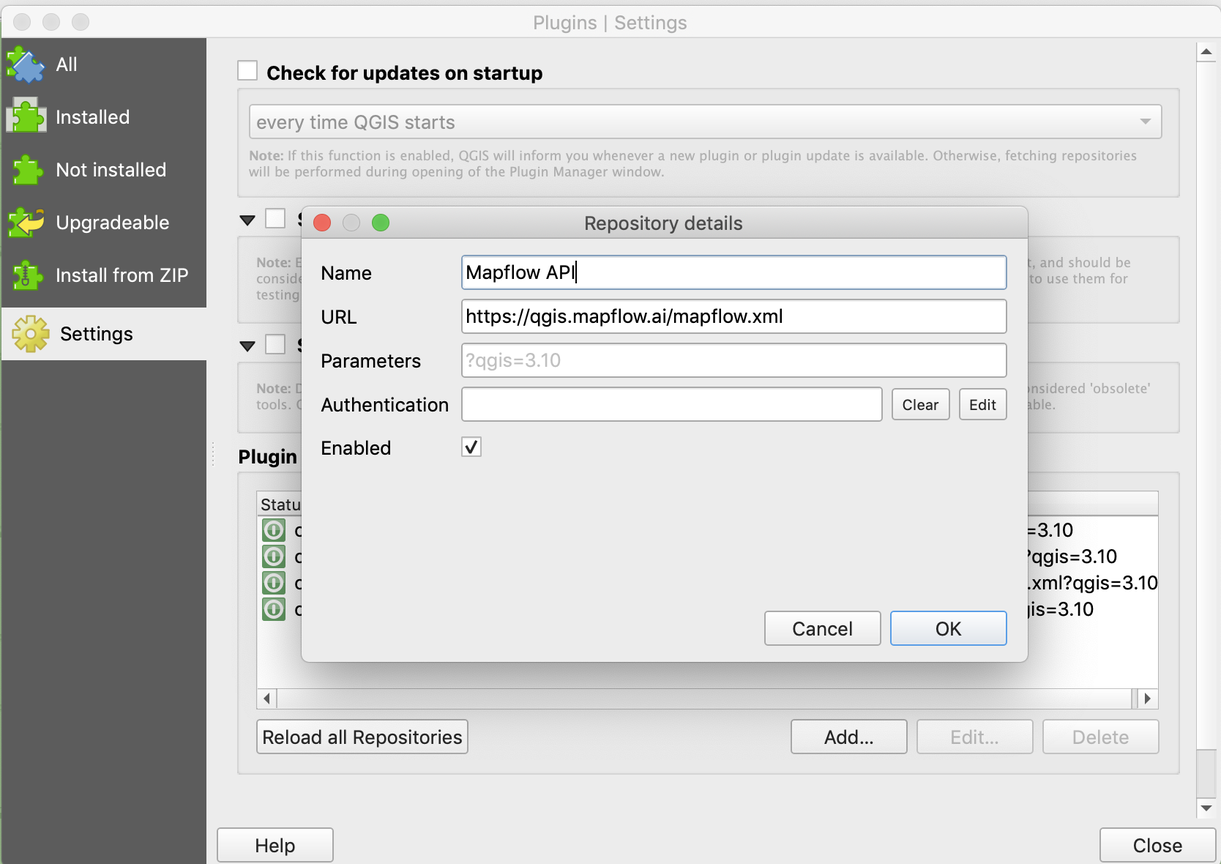
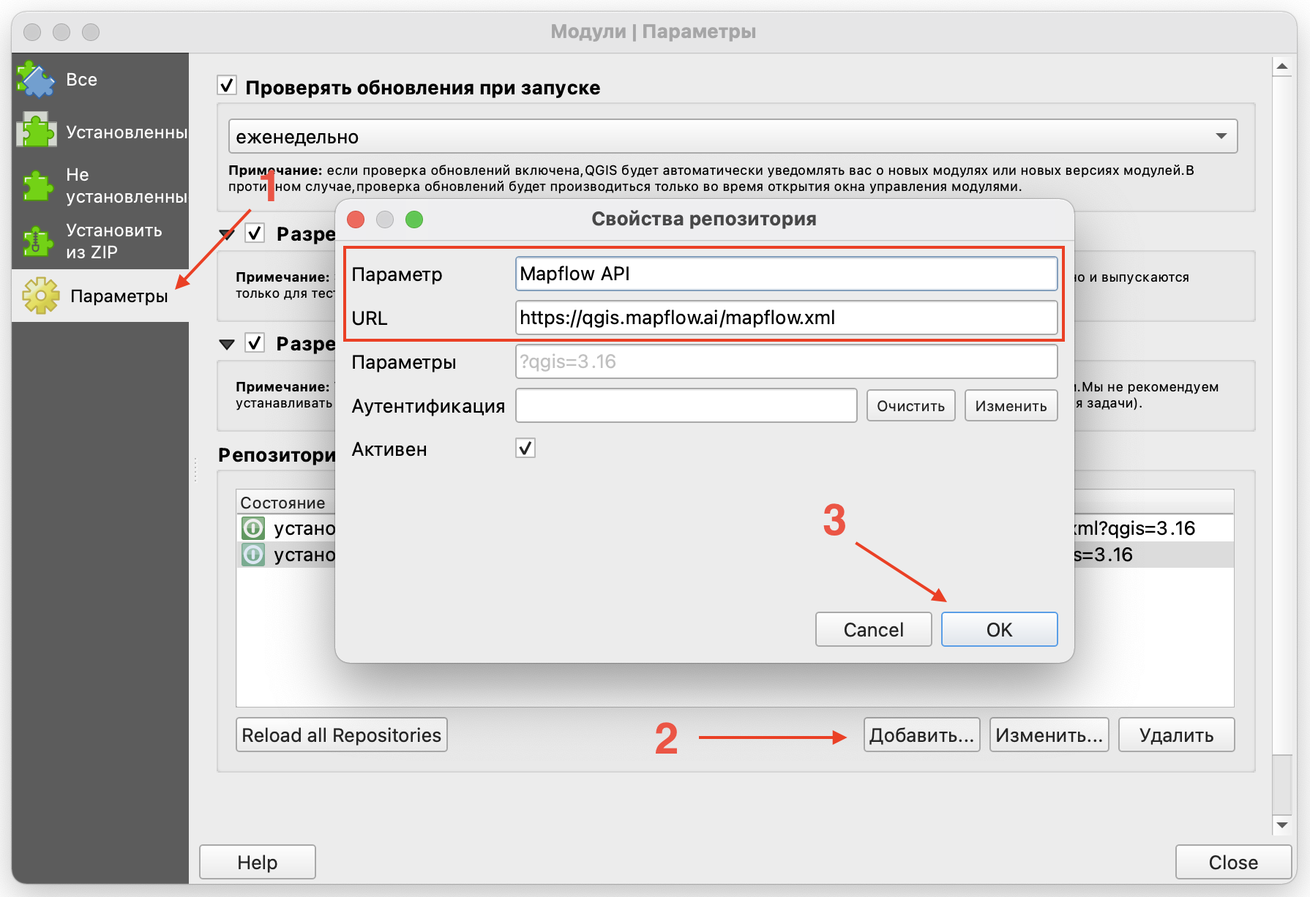
Update UI description

diff --git a/docs_api/qgis_mapflow.rst b/docs_api/qgis_mapflow.rst
@@ -8,73 +8,107 @@ QGIS
 Что такое QGIS
 ---------------
 
-
 **QGIS** - это наиболее популярная настольная ГИС с открытым исходным кодом. Пользователи могут визуализировать, управлять, редактировать, анализировать данные и составлять печатные карты. Узнайте больше на официальном сайте `QGIS <https://www.qgis.org/>`_. 
 
 При помощи данной ГИС  вы сможете подключить больше приложений и расширить функциональность, поскольку данная система имеет ресурсы для подключения внешних плагинов разработанных на Python. Наше приложение позволяет подключаться к Mapflow :doc:`processing_api` для запуска AI-моделей обработок и получать результаты процессинга в виде слоев для QGIS.
 
 
+Как установить плагин
+----------------------
+
+Для начала вам необходимо добавить внешний репозиторий с нашего сайта. Для этого нажмите Модули -> Управление и установка модулей… -> Параметры -> Добавить…, в появившемся окне заполните поля Параметр (имя) и URL-адрес репозитория.
+
+.. figure:: _static/qgis/add_repo.png
+         :alt: Add repo
+         :align: center
+         :width: 15cm
+
+Далее перейдите во вкладку Не установленные (или Все) и введите в поисковую строку название нашего плагина - Geoalert MapFlow. Нажмите Установить плагин.
+
+Теперь иконка плагина появилась в области Панель инструментов QGIS. Если автоматически иконка не отобразилась, нажмите правой кнопкой мыши по Панели инструментов и поставьте галочку рядом с Geoalert.
+         
+
 Пользовательский интерфейс
 ---------------------------
 
+Для использования плагина необходимо авторизоваться под своей учетноой записью. Зарегистрируйтесь и напишите в службу поддержки на сайте платформы запрос на предоставление доступа к API для работы с плагином.
+
+Окно авторизации
+~~~~~~~~~~~~~~~~
+
+.. figure:: _static/qgis/login_window.png
+         :alt: Login window
+         :align: center
+         :width: 10cm
+
+  
+.. list-table::
+   :widths: auto
+   :header-rows: 1
+
+   * - Название поля / кнопки
+     - Описание
+   * - Логин / Пароль
+     - Поля, предназначенные для ввода данных учетной записи пользователя.
+   * - Сервер
+     - Выбор платформы к которой плагин будет обращаться для запуска обработки.
+   * - Запомнить меня
+     - Сохранение персональных данных пользователя для использования плагина при дальнейшем выходе из своей учетной записи.   
+   * - Вход
+     - Кнопка входа в учетную запись пользователя.
+   * - Отмена
+     - Кнопка закрытия окна авторизации плагина.
+
+
+
+Плагин Geoalert
+~~~~~~~~~~~~~~~~
+
 Рабочее окно плагина Geoalert разделено на 3 вкладки:
 
-- Processing (Обработка);
-- Settings (Настройки);
-- Help (Справка).
+- Обработка;
+- Настройки;
+- Помощь.
 
-1. Processing
+1. Обработка
 ~~~~~~~~~~~~~~~
 
-    .. figure:: _static/qgis/processing_tab.png
+.. figure:: _static/qgis/processing_tab.png
          :alt: View of the processing tab
          :align: center
          :width: 15cm
 
 
-**1.1. Область авторизации пользователя**
+**Область параметров обработки**
 
-    *Login/Password*. В данной области необходимо ввести Login и Password. Перейдите на `mapflow.ai <https://mapflow.ai/ru>`_, зарегистрируйтесь и напишите в службу поддержки на сайте платформы запрос на предоставление доступа к API для работы с плагином.
+.. csv-table::
+    :file: _static/qgis/processing_parameters_area.csv 
+    :header-rows: 1 
+    :class: longtable
+    :widths: 1 3  
 
-    *Save Login/Password*. Сохранение персональных данных пользователя для дальнейшего использования плагина при его перезапуске.
 
-    *Connect*. Кнопка входа в учетную запись пользователя.
+**Блок отображения и работы с процессингами**
 
-**1.2. Область параметров обработки**
+.. list-table::
+   :widths: auto
+   :header-rows: 1
 
-    *Processing name*. Название обработки.
+   * - Название поля / кнопки
+     - Описание
+   * - Название
+     - Название обработки.
+   * - Модель
+     - Выбранный пользователем тип обработки в поле AI model.
+   * - Состояние
+     - Статус обработки. IN_PROGRESS - производится обработка, OK - обработка завершилась, FAILED - обработка завершилась неудачно.
+   * - Прогресс
+     - Степень завершенности обработки в процентном соотношении.
+   * - Дата
+     - Дата создания обработки.
 
-    *AOI layer*. Область, по которой будет производиться обработка. Данный слой автоматически отображается в выпадающем списке из списка векторных слоев QGIS, загрузите этот слой в QGIS или нарисуйте его.
-
-    *AI model*. Тип обработки. В выпадающем списке можно выбрать следующие типы обработки (дефолтный список сценариев обработки):
-       
-        - *Building Detection* (определение зданий);
-        - *Roads Detection* (определение дорог);
-        - *Forest Detection* (определение леса);
-        - *Buildings detection With Heights* (определение зданий с высотами);
-        - *Forest Detection With Heights* (определение леса с высотами).
-    
-    *Imagery source*. Подложка. По умолчанию выбрано Mapbox Satellite, в выпадающем списке также можно выбрать Custom (см.  Settings) и Open new .tif.
-
-    *Update image in cache*. Обновить изображение обработки в кэше.
-
-    *Start processing*. Кнопка запуска новой обработки.
-     
-**1.3. Блок отображения и работы с процессингами**
-
-    Окно процессингов состоит из:
-
-    - *Processing*. Степень завершенности обработки в процентах.
-    - *Name*. Название обработки.
-    - *Status*. Статус обработки.
-    - *Created*. Дата создания обработки.
-    - *ID*. ID обработки.
-    - *AI model*. Выбранный пользователем тип обработки в поле AI model.
-
-    *Delete*. Кнопка удаления ранее произведенную обработку из окна процессингов.
-
-    *Load processing results*. Кнопка, которая позволяет выгрузить полученный результат обработки в виде слоя в QGIS.
-
+Чтобы выгрузить результаты обработки, нажмите на завершенную обработку двойным щелчком.
+  
 2. Settings
 ~~~~~~~~~~~~
 
@@ -83,51 +117,52 @@ QGIS
          :align: center
          :width: 15cm
 
-*Destination folder*. Путь к директории, в которую будет загружен результат обработки.
+.. list-table::
+   :widths: auto
+   :header-rows: 1
 
-*Geoalert platform url*. URL-адрес платформы Geoalert.
-
-*Custom Imagery provider URL*. URL-адрес поставщика результатов спутниковой съёмки.
-
-*Raster tile type*. Растровый тип тайла. Можно выбрать xyz, tms, wms.
-
-*Max zoom 14*. Зум размера 14 выбран по умолчанию, чтобы исключить расход платного трафика на предпросмотр (Актуально в случае подключения к Maxar SecureWatch. Просмотр данных с этого сервиса возможен с 9 зума. Можно использовать приближение до максимального 18 зума, сняв галочку).
-
-*Preview*. Кнопка предпросмотра подложки указанного поставщика  спутниковой съёмки и геопространственных данных.
+   * - Название поля / кнопки
+     - Описание
+   * - Рабочая папка
+     - Путь к директории, в которую будет загружен результат обработки.
+   * - Добавление источника снимков
+     - URL-адрес поставщика результатов спутниковой съёмки.
+   * - Тип источника
+     - Растровый тип тайла. Можно выбрать xyz, tms, wms.
+   * - Просмотр
+     - Кнопка предпросмотра подложки указанного поставщика спутниковой съёмки и геопространственных данных.
+   * - Ограничить зум до 14
+     - Зум размера 14 выбран по умолчанию, чтобы исключить расход платного трафика на предпросмотр (Актуально в случае подключения к Maxar SecureWatch. Просмотр данных с этого сервиса возможен с 9 зума. Можно использовать приближение до максимального 18 зума, сняв галочку).
 
 **Настройки Maxar SecureWatch**
 
-*Login/Password*. Данные для входа в учетную запись SecureWatch.
+.. list-table::
+   :widths: auto
+   :header-rows: 1
 
-*Save Login/Password*. Сохранение персональных данных пользователя для дальнейшей возможности подключения к ресурсам SecureWatch.
+   * - Название поля / кнопки
+     - Описание
+   * - Логин / Пароль
+     - Данные для входа в учетную запись SecureWatch.
+   * - Запомнить
+     - Сохранение персональных данных пользователя для дальнейшей возможности подключения к ресурсам SecureWatch.
+   * - Connect ID
+     - Идентификатор подключения к ресурсам SecureWatch.
+   * - Получить ссылку
+     - Кнопка для получения URL-адреса поставщика данных спутниковой съёмки Maxar.
+   * - Feature ID
+     - Идентификатор изображения, пересекающегося с выбранной AOI областью, полученный из метаданных.
+   * - Область
+     - Область, по которой будут представлены метаданные.
+   * - Загрузить метаданные
+     - Кнопка для запуска сбора метаданных по выбранной области. После ее нажатия внизу появится таблица со всеми изображениями, пересекающимися с выбранной областью обработки.
 
-*Connect ID*. Идентификатор подключения к ресурсам SecureWatch. 
 
-*Get URL*. Кнопка для получения URL-адреса поставщика данных спутниковой съёмки Maxar.
-
-*Feature ID*. Идентификатор изображения, пересекающегося с выбранной AOI областью, полученный из meta-данных.
-
-*AOI layer*. Область, по которой будут представлены meta-данные.
-
-*Get image metadata*. Кнопка для запуска сбора meta-данных по выбранной области.
-
-3. Help
-~~~~~~~~
+3. Помощь
+~~~~~~~~~
 
 Во вкладке размещены все полезные ссылки для работы с данным плагином.
 
-Как установить плагин
-----------------------
-
-Вам необходимо добавить внешний репозиторий с нашего сайта, нажать *Плагины* -> *Управление...* -> *Добавить…* и заполнить форму с именем и `URL-адресом репозитория <https://qgis.mapflow.ai/mapflow.xml>`_.
- 
-.. figure:: _static/qgis/add_repo.png
-         :alt: Add repo
-         :align: center
-         :width: 15cm
-
-После этого вы сможете увидеть, доступна ли более новая версия приложения, и проверить подробности в журнале изменений.
-  
 
 Как подключиться к Maxar SecureWatch
 ------------------------------------
@@ -135,16 +170,16 @@ QGIS
 .. note::
     **SecureWatch** - это сервис по подписке, который обеспечивает глобальный доступ к спутниковым снимкам мирового лидера в области ДЗЗ, компании MAXAR. Пространственное разрешение снимков варьируется в диапазоне от 30 см до 1 м. Все снимки сопровождаются метаданными, включая информацию о дате и времени съемки, угле съемки и облачном покрове, пространственном разрешении, уровне обработка снимка и др. В нашем плагине реализован специальный интерфейс для работы с этим сервисом, позволяющий искать и просматривать снимки, а также использовать их для обработки в Mapflow.ai, оптимизируя при этом объем скачиваеемых данных.
 
-На вкладке **Processing** в выпадающем списке *Imagery source* выберите *Custom (in settings)*.
+На вкладке **Обработка** в выпадающем списке *Снимки* выберите *Иной источник (в настройках)*.
 
- .. figure:: _static/qgis/Geoalert_processing.png
+.. figure:: _static/qgis/use_maxar_sw.png
          :alt: Processing dialog
          :align: center
          :width: 15cm
 
-2. Перейдите на вкладку **Settings**.
+2. Перейдите на вкладку **Насройки**.
  
-3. Введите ваши данные учетной записи  SecureWatch в поля *Login* и *Password*.
+3. Введите ваши данные учетной записи  SecureWatch в поля *Логин* и *Пароль*.
 
 .. important:: 
     Если у вас нет учетной записи, зарегистрируйтесь на официальном сайте `SecureWatch <https://explore.maxar.com/securewatch-demo>`_.
@@ -167,7 +202,7 @@ QGIS
 
      4.4. Вернитесь в QGIS к плагину **Geoalert**, в поле *Connect ID* вставьте скопированный индентификатор.
    
-5. Нажмите *Get URL*. 
+5. Нажмите *Получить ссылку*. 
      
 Теперь слой Maxar доступен для предварительного просмотра в вашем списке растровых слоев и для обработки с помощью платформы Mapflow.
 
@@ -175,11 +210,11 @@ QGIS
 Как найти, просмотреть и обработать конкретный снимок, используя Maxar SecureWatch
 ~~~~~~~~~~~~~~~~~~~~~~~~~~~~~~~~~~~~~~~~~~~~~~~~~~~~~~~~~~~~~~~~~~~~~~~~~~~~~~~~~~
 
-Используя SW, вы можете найти и обработать снимок на интересующую область, используя поиск по всем доступным данным.
+Используя SecureWatch, вы можете найти и обработать снимок на интересующую область, используя поиск по всем доступным данным.
 
 1. Активируйте рабочую область настройки *Maxar SecureWatch*.
 
-2. С помощью выпадающего списка *AOI layer* выберите границы интересующей вас области обработки.
+2. С помощью выпадающего списка *Область* выберите границы интересующей вас области обработки.
 
 .. note::
     Область должна быть создана или загружена из файла, как полигональный векторный слой QGIS.
@@ -189,19 +224,19 @@ QGIS
          :align: center
          :width: 15cm    
 
-3. Нажмите  *Get image metadata*, чтобы просмотреть все имеющиеся снимки, перескающиеся с вашей областью обработки.
+3. Нажмите  *Получить метаданные*, чтобы просмотреть все имеющиеся снимки, перескающиеся с вашей областью обработки.
 
 4. С помощью выведенного списка полученных снимков, выберите наиболее подходящий для вас из перечня и выделите его в списке.
 
 .. note::
     Метаданные найденных снимков загружаются с использованием протокола WFS и отображаются в виде векторного слоя в дереве слоев. Вы можете работать с ним, как с любым векторным слоям, оперируя всеми атрибутами таблицы атрибутов.
 
-5. Нажмите *Get URL*, чтобы сформировать запрос к выбронному снимку (параметр *Feature ID*).
+5. Нажмите *Получить ссылку*, чтобы сформировать запрос к выбронному снимку (параметр *Feature ID*).
 
-6. Нажмите *Preview*, чтобы просмотреть выбранный снимок в отдельном растровом слое.
+6. Нажмите *Просмотр*, чтобы просмотреть выбранный снимок в отдельном растровом слое.
 
 .. attention::
-    Параметр *max zoom 14* служит для ограничения расхода платного трафика на стороне сервиса SecureWatch. Если вы хотите просматривать снимок в полном разрешении - отключите чекбокс и заново нажмите *Preview*.
+    Параметр *ограничить зум до 14* служит для ограничения расхода платного трафика на стороне сервиса SecureWatch. Если вы хотите просматривать снимок в полном разрешении - отключите чекбокс и заново нажмите *Просмотр*.
 
 
 
@@ -222,7 +257,7 @@ QGIS
 ----------------------------------------------
 
 
-Вы можете загрузить свой локальный растр в формате GeoTIF (*Open new .tif*). Каждый файл, добавленный в качестве растрового слоя в QGIS, отображается в раскрывающемся списке и может быть выбран для загрузки и обработки. Открытие файлы через *Open new .tif* также добавляет его в список слоев QGIS с возможностью выбора.
+Вы можете загрузить свой локальный растр в формате GeoTIF (*Открыть новый .tif*). Каждый файл, добавленный в качестве растрового слоя в QGIS, отображается в раскрывающемся списке и может быть выбран для загрузки и обработки. Открытие файлы через *Открыть новый .tif* также добавляет его в список слоев QGIS с возможностью выбора.
 
  .. figure:: _static/qgis/upload_tif.png
          :alt: Upload TIF, select from list
